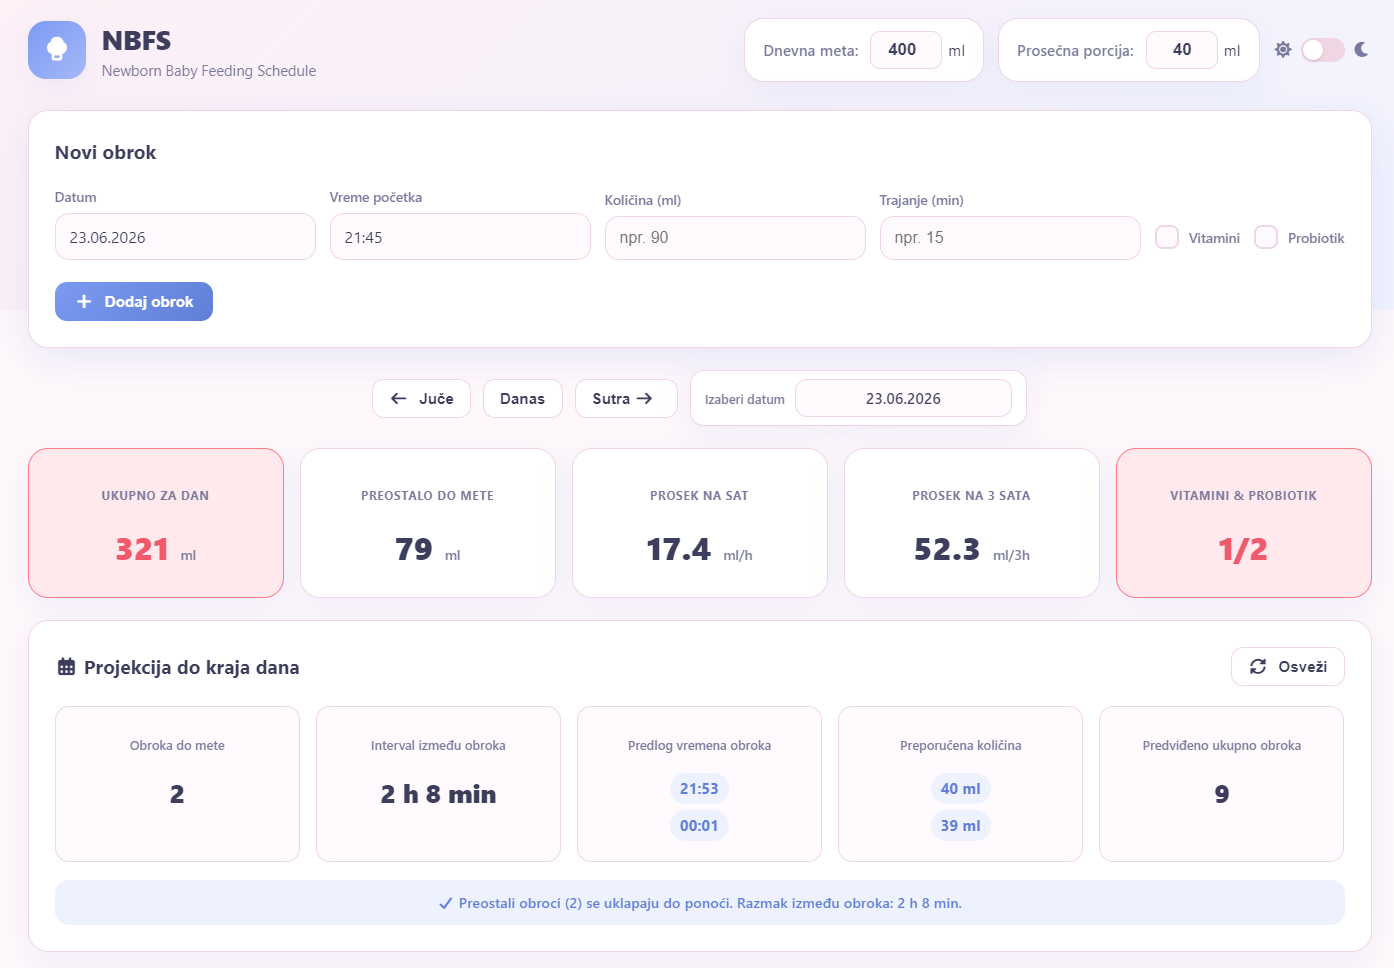
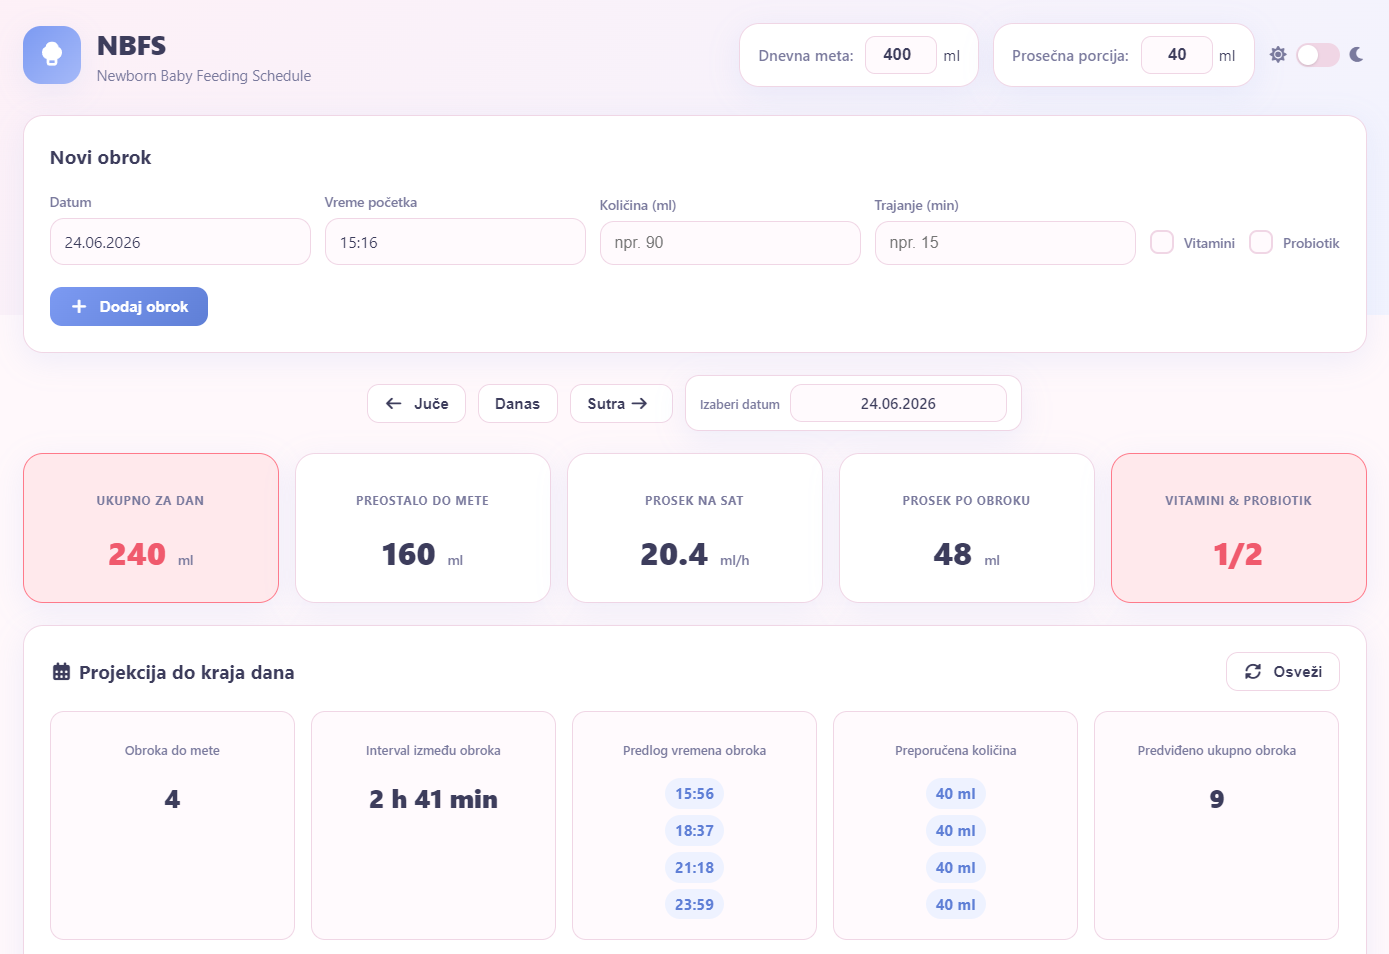
Zamena statistike: Prosek na 3 sata -> Prosek po obroku
- Izračunavanje proseka po obroku: ukupno ml / broj obroka
- Ažurirani HTML, renderer, database i testovi
- Zamena screenshot-a
- Ažurirana README i AGENTS dokumentacija

diff --git a/test-db.js b/test-db.js
@@ -51,7 +51,7 @@ eq(stats.count, 3, 'Count should be 3');
 eq(stats.goal, 500, 'Goal should be 500');
 eq(stats.remaining, 270, 'Remaining should be 270');
 eq(Math.round(stats.avgPerHour * 10) / 10, 41.8, 'Avg per hour');
-eq(Math.round(stats.avgPer3Hours * 10) / 10, 125.5, 'Avg per 3 hours');
+eq(Math.round(stats.avgPerMeal * 10) / 10, 76.7, 'Avg per meal');
 eq(stats.supplementsTaken, 2, 'Supplements should be 2/2');
 
 // Update feeding
@@ -65,7 +65,7 @@ eq(feedings[1].duration_min, 15, 'Updated feeding duration');
 stats = db.getStats(date);
 eq(stats.total, 240, 'Total after update');
 eq(Math.round(stats.avgPerHour * 10) / 10, 43.6, 'Avg per hour after update');
-eq(Math.round(stats.avgPer3Hours * 10) / 10, 130.9, 'Avg per 3 hours after update');
+eq(Math.round(stats.avgPerMeal * 10) / 10, 80, 'Avg per meal after update');
 
 // Delete feeding
 db.deleteFeeding(id3);
@@ -75,13 +75,14 @@ eq(feedings.length, 2, 'Should have 2 feedings after delete');
 stats = db.getStats(date);
 eq(stats.total, 160, 'Total after delete');
 eq(Math.round(stats.avgPerHour * 10) / 10, 53.3, 'Avg per hour after delete');
-eq(Math.round(stats.avgPer3Hours * 10) / 10, 160, 'Avg per 3 hours after delete');
+eq(Math.round(stats.avgPerMeal * 10) / 10, 80, 'Avg per meal after delete');
 eq(stats.supplementsTaken, 1, 'Supplements should be 1/2 after delete');
 
 // Empty date
 const emptyStats = db.getStats('2020-01-01');
 eq(emptyStats.total, 0, 'Empty date total');
 eq(emptyStats.avgPerHour, 0, 'Empty date avg per hour');
+eq(emptyStats.avgPerMeal, 0, 'Empty date avg per meal');
 
 // Cleanup
 db.close();

diff --git a/src/renderer.js b/src/renderer.js
@@ -23,7 +23,7 @@ const statTotal = document.getElementById('stat-total');
 const statTotalCard = document.getElementById('stat-total-card');
 const statRemaining = document.getElementById('stat-remaining');
 const statHour = document.getElementById('stat-hour');
-const stat3h = document.getElementById('stat-3h');
+const statAvgMeal = document.getElementById('stat-avg-meal');
 const statSupplements = document.getElementById('stat-supplements');
 const statSupplementsCard = document.getElementById('stat-supplements-card');
 
@@ -300,7 +300,7 @@ function renderStats(stats) {
   statTotal.innerHTML = `${stats.total} <span>ml</span>`;
   statRemaining.innerHTML = `${stats.remaining} <span>ml</span>`;
   statHour.innerHTML = `${round(stats.avgPerHour)} <span>ml/h</span>`;
-  stat3h.innerHTML = `${round(stats.avgPer3Hours)} <span>ml/3h</span>`;
+  statAvgMeal.innerHTML = `${round(stats.avgPerMeal)} <span>ml</span>`;
 
   statTotalCard.classList.remove('success', 'warning', 'danger');
   const diff = stats.goal - stats.total;

diff --git a/src/database.js b/src/database.js
@@ -110,7 +110,7 @@ function initDatabase(dbPath) {
     }
 
     const avgPerHour = count > 0 ? total / hoursActive : 0;
-    const avgPer3Hours = count > 0 ? avgPerHour * 3 : 0;
+    const avgPerMeal = count > 0 ? total / count : 0;
     const goal = getDailyGoal();
     const vitaminsTaken = rows.some(r => r.vitamins) ? 1 : 0;
     const probioticTaken = rows.some(r => r.probiotic) ? 1 : 0;
@@ -119,7 +119,7 @@ function initDatabase(dbPath) {
       total,
       count,
       avgPerHour,
-      avgPer3Hours,
+      avgPerMeal,
       goal,
       remaining: Math.max(0, goal - total),
       supplementsTaken

diff --git a/src/index.html b/src/index.html
@@ -124,8 +124,8 @@
           <div class="stat-value" id="stat-hour">0 <span>ml/h</span></div>
         </div>
         <div class="stat-card">
-          <div class="stat-label">Prosek na 3 sata</div>
-          <div class="stat-value" id="stat-3h">0 <span>ml/3h</span></div>
+          <div class="stat-label">Prosek po obroku</div>
+          <div class="stat-value" id="stat-avg-meal">0 <span>ml</span></div>
         </div>
         <div class="stat-card stat-supplements" id="stat-supplements-card">
           <div class="stat-label">Vitamini & Probiotik</div>

diff --git a/AGENTS.md b/AGENTS.md
@@ -38,7 +38,7 @@ Umesto nativnih browser kontrola, aplikacija koristi **React** pickere (`react-d
 | **Ukupno za dan** | Ukupno popijeno mleko tog dana |
 | **Preostalo do mete** | Koliko ml fali do dnevne mete |
 | **Prosek na sat** | `ukupno ml / broj sati od prvog do poslednjeg obroka` (fallback: 24h) |
-| **Prosek na 3 sata** | `prosek na sat × 3` |
+| **Prosek po obroku** | `ukupno ml / broj obroka` tog dana |
 | **Vitamini & Probiotik** | `0/2`, `1/2` ili `2/2` — zeleno kad je `2/2`, crveno inače |
 
 ### Bojna indikacija ukupnog unosa

diff --git a/README.md b/README.md
@@ -15,7 +15,7 @@ Jednostavna desktop aplikacija za praćenje unosa mleka kod novorođenčadi. Raz
   - Ukupno za dan
   - Preostalo do dnevne mete
   - Prosek na sat
-  - Prosek na 3 sata
+  - Prosek po obroku
   - Vitamini & Probiotik (`0/2`, `1/2`, `2/2`)
 - **Indikacija ukupnog unosa po bojama** — zelena (meta dostignuta), žuta (manje od 50 ml do mete), crvena (više od 50 ml do mete)
 - **Projekcija do kraja dana** — na osnovu preostale količine, prosečne porcije i poslednjeg obroka predlaže:
